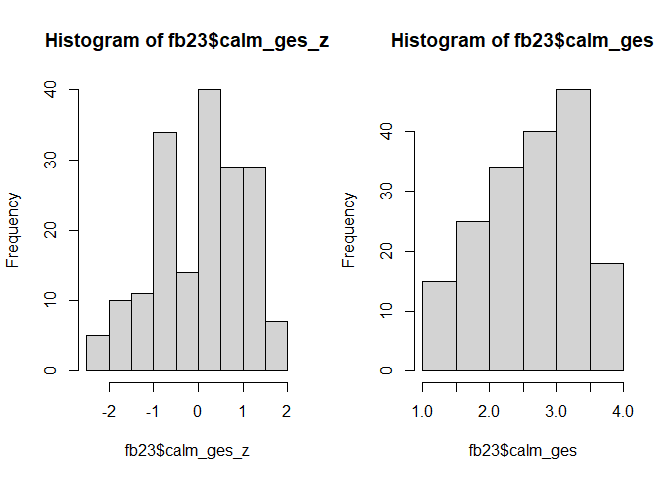
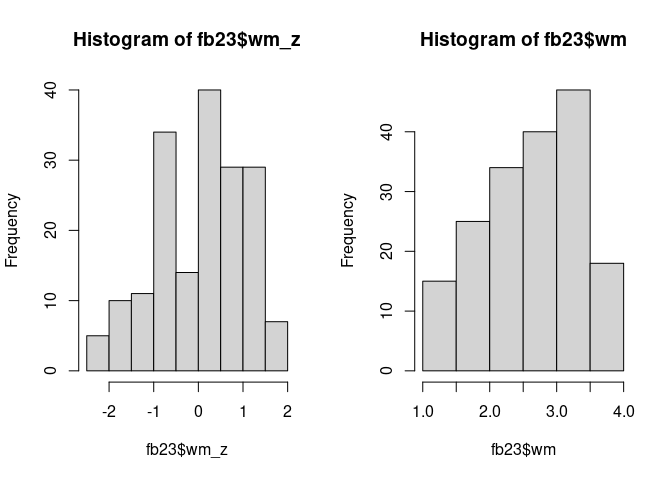
Change naming of MDBF subscales in exercise.

diff --git a/content/lehre/statistik-i/deskriptiv-intervall-loesungen.md b/content/lehre/statistik-i/deskriptiv-intervall-loesungen.md
@@ -28,12 +28,10 @@ output:
 
 ### Vorbereitung
 
-<details><summary>Lösung</summary>
-
 
 Laden Sie zunächst den Datensatz `fb23` von der pandar-Website. Alternativ können Sie die fertige R-Daten-Datei [<i class="fas fa-download"></i> hier herunterladen](/daten/fb23.rda). Beachten Sie in jedem Fall, dass die [Ergänzungen im Datensatz](/lehre/statistik-i/deskriptiv-intervall/#prep) vorausgesetzt werden. Die Bedeutung der einzelnen Variablen und ihre Antwortkategorien können Sie dem Dokument [Variablenübersicht](/lehre/statistik-i/variablen.pdf) entnehmen.
 
-
+<details><summary>R-Code für die Vorbereitung</summary>
 
 ```r
 #### Was bisher geschah: ----
@@ -61,7 +59,7 @@ fb23$wohnen <- factor(fb23$wohnen,
 
 ## Aufgabe 1
 
-Erstellen Sie im Datensatz `fb23` die Skalenwerte für die Unterstkala "Ruhe" der aktuellen Stimmung, die mit den Items mdbf3, mdbf6, mdbf9 und mdbf12 gemessen wurde. Mdbf3 und Mdbf9 sind invertiert und müssen rekodiert werden. Speichern sie diese als `calm_ges` ab.
+Erstellen Sie im Datensatz `fb23` die Skalenwerte für die Unterstkala "Ruhe" der aktuellen Stimmung, die mit den Items mdbf3, mdbf6, mdbf9 und mdbf12 gemessen wurde. Mdbf3 und Mdbf9 sind invertiert und müssen rekodiert werden. Speichern sie diese als `wm` ab.
 
 * Erstellen Sie den Skalenwert als Mittelwert der drei Items.
 
@@ -79,9 +77,9 @@ fb23$mdbf9_pre_r <-  -1 * (fb23$mdbf9_pre - 5)
 ```r
 # Skalenwert
 
-calm <- fb23[, c("mdbf3_pre_r", "mdbf6_pre", "mdbf9_pre_r", "mdbf12_pre")]
+wm <- fb23[, c("mdbf3_pre_r", "mdbf6_pre", "mdbf9_pre_r", "mdbf12_pre")]
 
-fb23$calm_ges <- rowMeans(calm)
+fb23$wm <- rowMeans(wm)
 ```
 
 Oder in einem Schritt mit der Pipe:
@@ -90,7 +88,7 @@ Oder in einem Schritt mit der Pipe:
 ```r
 # Skalenwert
 
-fb23$calm_ges <-  fb23[, c("mdbf3_pre_r", "mdbf6_pre", "mdbf9_pre_r", "mdbf12_pre")] |> rowMeans()
+fb23$wm <-  fb23[, c("mdbf3_pre_r", "mdbf6_pre", "mdbf9_pre_r", "mdbf12_pre")] |> rowMeans()
 ```
 
 </details>
@@ -109,7 +107,7 @@ Bestimmen Sie für die Skala den gesamten Mittelwert und Median.
 
 ```r
 # Median und Mittelwert
-median(fb23$calm_ges, na.rm = TRUE)
+median(fb23$wm, na.rm = TRUE)
 ```
 
 ```
@@ -117,7 +115,7 @@ median(fb23$calm_ges, na.rm = TRUE)
 ```
 
 ```r
-mean(fb23$calm_ges, na.rm = TRUE)
+mean(fb23$wm, na.rm = TRUE)
 ```
 
 ```
@@ -131,7 +129,7 @@ Der Median ist größer als der Mittelwert, was eine linksschiefe Verteilung ver
 
 
 ```r
-hist(fb23$calm_ges, breaks = 6) # Histogramm
+hist(fb23$wm, breaks = 6) # Histogramm
 ```
 
 ![](/lehre/statistik-i/deskriptiv-intervall-loesungen_files/figure-html/unnamed-chunk-6-1.png)<!-- -->
@@ -142,7 +140,7 @@ Unser Histogramm zeigt uns, dass die Verteilung tatsächlich einigermaßen links
 
 ## Aufgabe 3
 
-Bestimmen Sie für den Skalenwert `calm_ges` die empirische Varianz und Standardabweichung. Achten Sie dabei darauf, ob es auf der Skala fehlende Werte gibt.
+Bestimmen Sie für den Skalenwert `wm` die empirische Varianz und Standardabweichung. Achten Sie dabei darauf, ob es auf der Skala fehlende Werte gibt.
 
 * Sind empirische Varianz und Standardabweichung größer oder kleiner als diejenige Schätzung, die mithilfe von `var()` oder `sd()` bestimmt wird?
 
@@ -153,11 +151,11 @@ Bestimmen Sie für den Skalenwert `calm_ges` die empirische Varianz und Standard
 * Empirische Varianz: $s^2_{X} = \frac{\sum_{m=1}^n (x_m - \bar{x})^2}{n}$  
 * Schätzer der Populationsvarianz: $\hat{\sigma}^2_{X} = \frac{\sum_{m=1}^n (x_m - \bar{x})^2}{n - 1}$  
 
-Zur Berechnung der Varianz gemäß Formel benötigen wir $n$. Wir könnten mit `nrow(fb23)` die Länge des Datensatzes für `n` heranziehen. Dies ist jedoch nur dann sinnvoll, wenn auf der Variable `calm_ges` keine fehlenden Werte vorhanden sind!
+Zur Berechnung der Varianz gemäß Formel benötigen wir $n$. Wir könnten mit `nrow(fb23)` die Länge des Datensatzes für `n` heranziehen. Dies ist jedoch nur dann sinnvoll, wenn auf der Variable `wm` keine fehlenden Werte vorhanden sind!
 
 
 ```r
-is.na(fb23$calm_ges) |> sum()
+is.na(fb23$wm) |> sum()
 ```
 
 ```
@@ -170,7 +168,7 @@ Hier gibt es tatsächlich keinen fehlenden Wert.
 ```r
 # empirische Varianz
 # per Hand
-sum((fb23$calm_ges - mean(fb23$calm_ges, na.rm = T))^2, na.rm = T) / (length(na.omit(fb23$calm_ges)))
+sum((fb23$wm - mean(fb23$wm, na.rm = T))^2, na.rm = T) / (length(na.omit(fb23$wm)))
 ```
 
 ```
@@ -179,7 +177,7 @@ sum((fb23$calm_ges - mean(fb23$calm_ges, na.rm = T))^2, na.rm = T) / (length(na.
 
 ```r
 # durch Umrechnung 
-var(fb23$calm_ges, na.rm = T) * (length(na.omit(fb23$calm_ges))-1) / length(na.omit(fb23$calm_ges))
+var(fb23$wm, na.rm = T) * (length(na.omit(fb23$wm))-1) / length(na.omit(fb23$wm))
 ```
 
 ```
@@ -188,7 +186,7 @@ var(fb23$calm_ges, na.rm = T) * (length(na.omit(fb23$calm_ges))-1) / length(na.o
 
 ```r
 # Populationsschätzer
-var(fb23$calm_ges, na.rm = T)
+var(fb23$wm, na.rm = T)
 ```
 
 ```
@@ -202,7 +200,7 @@ Nun fehlt noch die Betrachtung der Standardabweichung. Als einfachste Möglichke
 
 ```r
 # empirische Standardabweichung (na.omit / na.rm kann auch ausgelassen werden!)
-(sum((fb23$calm_ges - mean(fb23$calm_ges, na.rm = T))^2, na.rm = T) / length(na.omit(fb23$calm_ges))) |> sqrt()
+(sum((fb23$wm - mean(fb23$wm, na.rm = T))^2, na.rm = T) / length(na.omit(fb23$wm))) |> sqrt()
 ```
 
 ```
@@ -211,7 +209,7 @@ Nun fehlt noch die Betrachtung der Standardabweichung. Als einfachste Möglichke
 
 ```r
 # Populationsschätzer
-sd(fb23$calm_ges, na.rm = T)
+sd(fb23$wm, na.rm = T)
 ```
 
 ```
@@ -225,10 +223,10 @@ Auch hier ist der empirische Wert kleiner als der Schätzer.
 
 ## Aufgabe 4
 
-Erstellen Sie eine z-standardisierte Variante der Stimmungs-Skala als `calm_ges_z`.
+Erstellen Sie eine z-standardisierte Variante der Stimmungs-Skala als `wm_z`.
 
-* Erstellen Sie für `calm_ges_z` ein Histogramm.
-* Was fällt Ihnen auf, wenn Sie dieses mit dem Histogramm der unstandardisierten Werte `calm_ges` vergleichen?
+* Erstellen Sie für `wm_z` ein Histogramm.
+* Was fällt Ihnen auf, wenn Sie dieses mit dem Histogramm der unstandardisierten Werte `wm` vergleichen?
 * Erstellen Sie beide Histogramme noch einmal mit 40 angeforderten Breaks.
 
 
@@ -241,11 +239,11 @@ Um die Vergleichbarkeit zu erhöhen, wird im folgenden Code ein kleiner Trick an
 par(mfrow=c(1,2))
 
 # z-Standardisierung
-fb23$calm_ges_z <- scale(fb23$calm_ges)
+fb23$wm_z <- scale(fb23$wm)
 
 # Histogramme
-hist(fb23$calm_ges_z)
-hist(fb23$calm_ges)
+hist(fb23$wm_z)
+hist(fb23$wm)
 ```
 
 ![](/lehre/statistik-i/deskriptiv-intervall-loesungen_files/figure-html/unnamed-chunk-10-1.png)<!-- -->
@@ -256,8 +254,8 @@ Beim Vergleich der beiden Histogrammen fällt auf, dass sich - aufgrund der R-Vo
 ```r
 # Histogramme mit jeweils 5/6 Breaks
 par(mfrow=c(1,2))
-hist(fb23$calm_ges_z, breaks = 5)
-hist(fb23$calm_ges, breaks = 6)
+hist(fb23$wm_z, breaks = 5)
+hist(fb23$wm, breaks = 6)
 ```
 
 ![](/lehre/statistik-i/deskriptiv-intervall-loesungen_files/figure-html/unnamed-chunk-11-1.png)<!-- -->

diff --git a/content/lehre/statistik-i/deskriptiv-intervall-aufgaben.md b/content/lehre/statistik-i/deskriptiv-intervall-aufgaben.md
@@ -43,7 +43,7 @@ output:
 
 ## Aufgabe 1
 
-Erstellen Sie im Datensatz `fb23` die Skalenwerte für die Unterstkala "Ruhe" der aktuellen Stimmung, die mit den Items mdbf3, mdbf6, mdbf9 und mdbf12 gemessen wurde. Mdbf3 und Mdbf9 sind invertiert und müssen rekodiert werden. Speichern sie diese als `calm_ges` ab.
+Erstellen Sie im Datensatz `fb23` die Skalenwerte für die Unterstkala "Ruhe" der aktuellen Stimmung, die mit den Items mdbf3, mdbf6, mdbf9 und mdbf12 gemessen wurde. Mdbf3 und Mdbf9 sind invertiert und müssen rekodiert werden. Speichern sie diese als `wm` ab.
 
 * Erstellen Sie den Skalenwert als Mittelwert der drei Items.
 
@@ -56,15 +56,15 @@ Bestimmen Sie für die Skala den gesamten Mittelwert und Median.
 
 ## Aufgabe 3
 
-Bestimmen Sie für den Skalenwert `calm_ges` die empirische Varianz und Standardabweichung. Achten Sie dabei darauf, ob es auf der Skala fehlende Werte gibt.
+Bestimmen Sie für den Skalenwert `wm` die empirische Varianz und Standardabweichung. Achten Sie dabei darauf, ob es auf der Skala fehlende Werte gibt.
 
 * Sind empirische Varianz und Standardabweichung größer oder kleiner als diejenige Schätzung, die mithilfe von `var()` oder `sd()` bestimmt wird?  
 
 
 ## Aufgabe 4
 
-Erstellen Sie eine z-standardisierte Variante der Stimmungs-Skala als `calm_ges_z`.
+Erstellen Sie eine z-standardisierte Variante der Stimmungs-Skala als `wm_z`.
 
-* Erstellen Sie für `calm_ges_z` ein Histogramm.
-* Was fällt Ihnen auf, wenn Sie dieses mit dem Histogramm der unstandardisierten Werte `calm_ges` vergleichen?
+* Erstellen Sie für `wm_z` ein Histogramm.
+* Was fällt Ihnen auf, wenn Sie dieses mit dem Histogramm der unstandardisierten Werte `wm` vergleichen?
 * Erstellen Sie beide Histogramme noch einmal mit 40 angeforderten Breaks.
